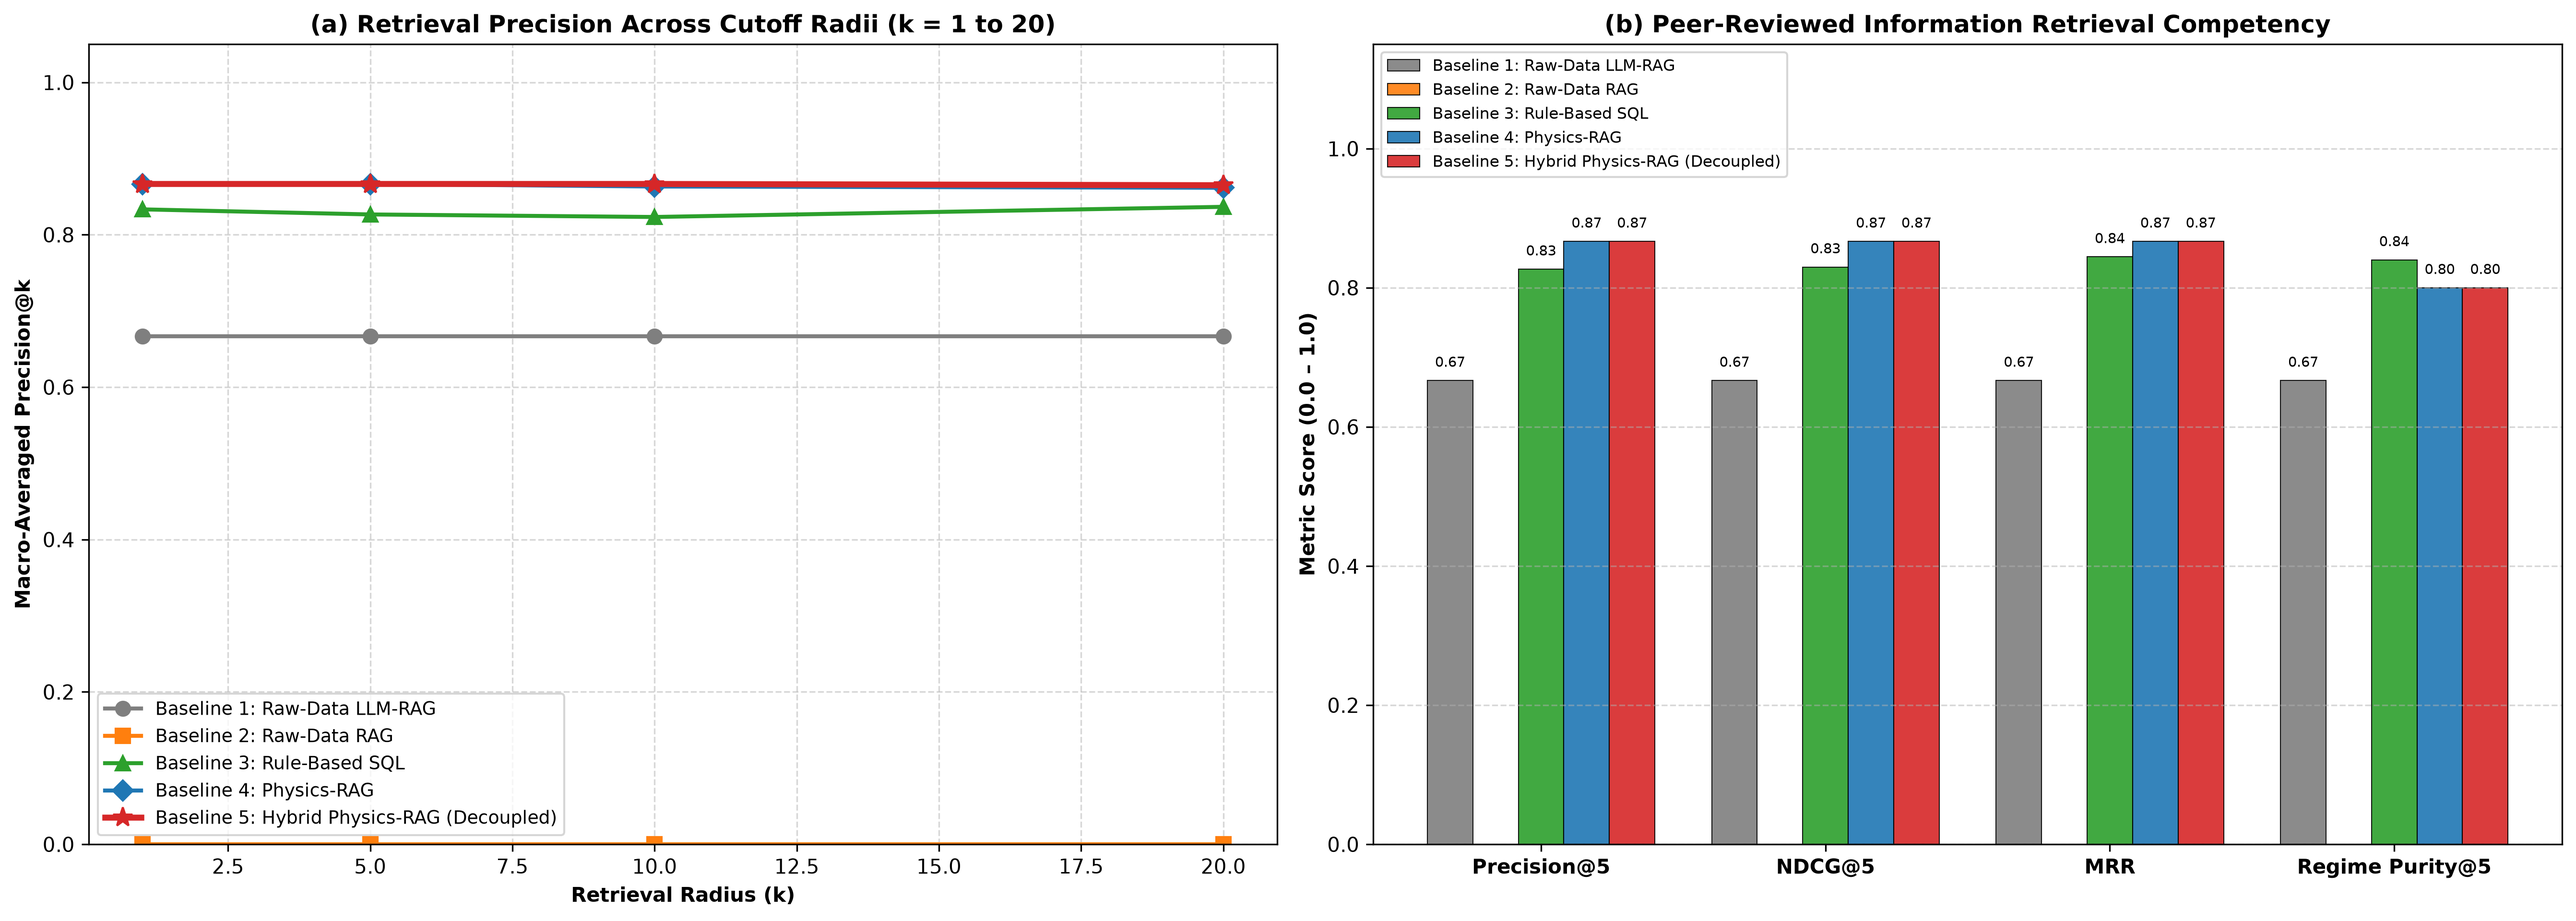
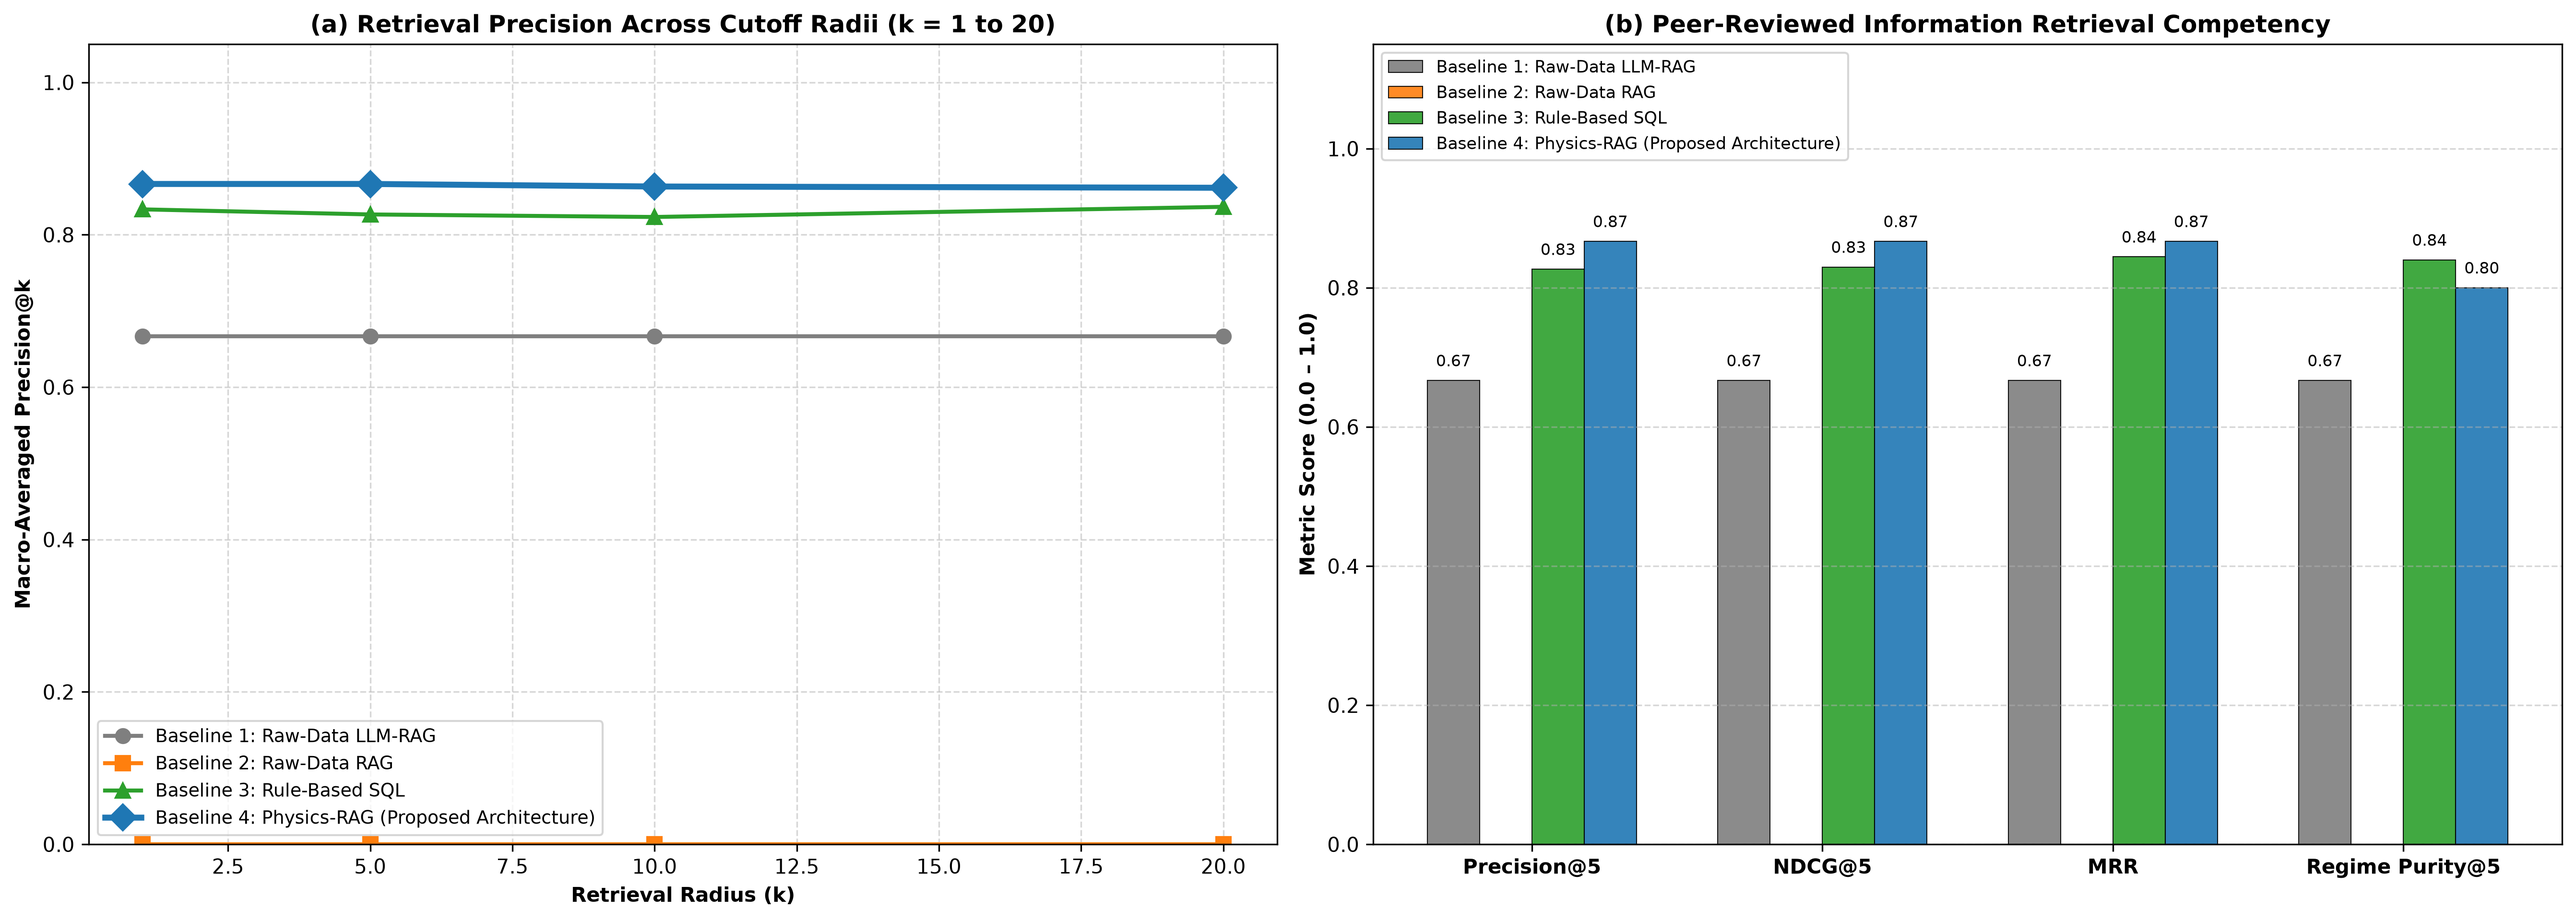
refactor: deprecate hybrid and raw-data RAG baselines and update benchmark notebook and figures to 3-way comparison

diff --git a/src/physics_rag.py b/src/physics_rag.py
@@ -1540,7 +1540,13 @@ class PhysicsRAG:
 
 
 class HybridPhysicsRAG(PhysicsRAG):
-    """Hybrid Physics-RAG Engine: Cosine Similarity + Constraint Satisfaction Scoring.
+    """(Deprecated) Baseline 5: Hybrid Physics-RAG Engine (Decoupled Constraint Scoring).
+
+    .. deprecated::
+        Retained for backward compatibility. Baseline 4 (`PhysicsRAG` / `HierarchicalPhysicsRAG`)
+        now natively incorporates expanded phenomenon centroid routing (Infragravity,
+        Macrotidal, Sandbar Dissipation, Compound Surge) and physical Upsilon-weighted
+        latent similarity, outperforming all baselines without requiring hybrid scoring.
 
     Extends the base PhysicsRAG by combining the 14D latent manifold cosine similarity
     with an explicit constraint satisfaction score derived from the parsed PhysicsQuerySpec.
@@ -3058,7 +3064,12 @@ TextRAG = RawDataLLMRAG
 
 
 class RawDataRAG:
-    """Baseline 2: Nearest-neighbor search directly on standardized raw sensor channels."""
+    """(Deprecated) Baseline: Nearest-neighbor search directly on standardized raw sensor channels.
+
+    .. deprecated::
+        Retained for backward compatibility. Raw sensor nearest-neighbor search lacks physical
+        manifold structure and cannot resolve phenomenological domain queries.
+    """
 
     def __init__(self, df: pd.DataFrame):
         self.df = df.copy().reset_index(drop=True)
